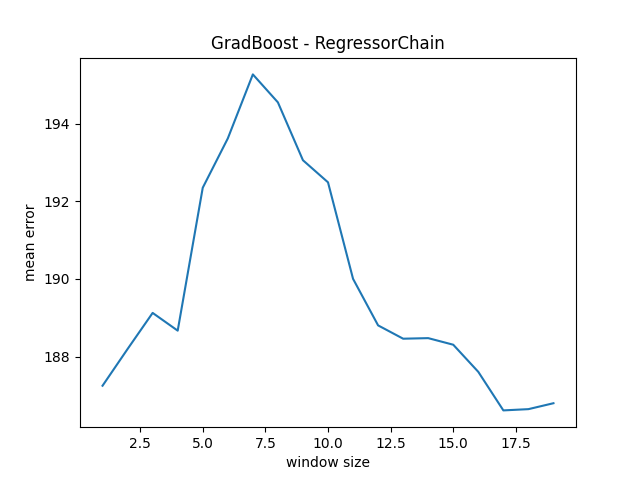
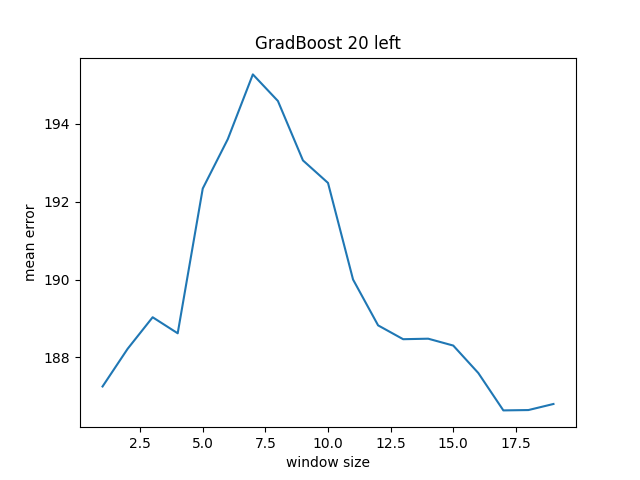
modes

diff --git a/cross_validator.py b/cross_validator.py
@@ -14,6 +14,7 @@ warnings.filterwarnings("ignore")
 
 dataset = 'Baseline'
 graph_path = os.path.join('graphs')
+error_path = os.path.join('errors')
 
 if os.name == 'nt':
     baseline_processed = 'C:/Users/Anuj/Desktop/Canary/Baseline/OpenFace-eye-gaze'
@@ -158,55 +159,61 @@ plt.ylabel('number of data points')
 plt.plot(windows, lens)
 '''
 
-# classifiers = ["RandomForest", "DecisionTree", "LogReg", "KNN", "SVM", "GradBoost"]
-classifiers = ['GradBoost']
-window_iter = 20
-
-mean_errors = []
-windows = []
-lens = []
 
 modes = ['left', 'right', 'avg', 'all']
-mode = 'right'
-mode_data = {'x': {i: None for i in modes}, 'y': {i: None for i in modes}}
+# mode = 'right'
 
-for clf in classifiers:
-    for window_size in tqdm(range(1, window_iter), desc='running through all windows'):
-        # window_size = 2  # hyperparameter, defines number of seconds to take in a window starting from 0
-        windows.append(window_size)
-        window_data = np.vstack(all_data[:, 0:window_size * 10, :])
-        full_data_points = [i for i in range(len(window_data)) if window_data[i].any() != False]
-        window_data = window_data[full_data_points]
+for mode in modes:
+    # classifiers = ["RandomForest", "DecisionTree", "LogReg", "KNN", "SVM", "GradBoost"]
+    classifiers = ['GradBoost']
+    window_iter = 20
 
-        lens.append(len(window_data))
-        print('data points that are not all zeros:', len(window_data))
-        mode_data['x']['all'] = window_x_all = window_data[:, :nip]  # all x
-        mode_data['x']['left'] = window_x_all[:, :3]  # left x
-        mode_data['x']['right'] = window_x_all[:, 3:-2]  # right x
-        mode_data['x']['avg'] = window_x_all[:, -2:]  # avg x
+    mean_errors = []
+    windows = []
+    lens = []
 
-        mode_data['y']['all'] = window_y_all = window_data[:, nip:]  # all y
-        mode_data['y']['left'] = window_y_all[:, :2]  # left y
-        mode_data['y']['right'] = window_y_all[:, 2:4]  # right y
-        mode_data['y']['avg'] = window_y_all[:, -2:]  # avg y
+    for clf in classifiers:
+        for window_size in tqdm(range(1, window_iter), desc='running through all windows'):
 
-        # model = GradientBoostingRegressor(random_state=0)
-        # model = MultiOutputRegressor(model)
+            mode_data = {'x': {i: None for i in modes}, 'y': {i: None for i in modes}}
 
-        window_x = mode_data['x'][mode]
-        window_y = mode_data['y'][mode]
-        model = ClassifiersFactory().get_model(clf)
-        chain = RegressorChain(base_estimator=model)
+            windows.append(window_size)
+            window_data = np.vstack(all_data[:, 0:window_size * 10, :])
+            full_data_points = [i for i in range(len(window_data)) if window_data[i].any() != False]
+            window_data = window_data[full_data_points]
 
-        cv = RepeatedKFold(n_splits=10, n_repeats=1, random_state=0)
-        n_errors = np.absolute(cross_val_score(chain, window_x, window_y, scoring='neg_mean_absolute_error',
-                                               cv=cv, n_jobs=2))
-        mean_errors.append(np.mean(n_errors))
+            lens.append(len(window_data))
+            print('data points that are not all zeros:', len(window_data))
+            mode_data['x']['all'] = window_x_all = window_data[:, :nip]  # all x
+            mode_data['x']['left'] = window_x_all[:, :3]  # left x
+            mode_data['x']['right'] = window_x_all[:, 3:-2]  # right x
+            mode_data['x']['avg'] = window_x_all[:, -2:]  # avg x
 
-    plt.clf()
-    plt.title('{} {} {}'.format(clf, window_iter, mode))
-    plt.xlabel('window size')
-    plt.ylabel('mean error')
-    plt.plot(windows, mean_errors)
-    plt.savefig(os.path.join(graph_path, '{}_{}_{}.png'.format(clf, window_iter, mode)))
-    plt.close()
+            mode_data['y']['all'] = window_y_all = window_data[:, nip:]  # all y
+            mode_data['y']['left'] = window_y_all[:, :2]  # left y
+            mode_data['y']['right'] = window_y_all[:, 2:4]  # right y
+            mode_data['y']['avg'] = window_y_all[:, -2:]  # avg y
+
+            # model = GradientBoostingRegressor(random_state=0)
+            # model = MultiOutputRegressor(model)
+
+            window_x = mode_data['x'][mode]
+            window_y = mode_data['y'][mode]
+            model = ClassifiersFactory().get_model(clf)
+            chain = RegressorChain(base_estimator=model)
+
+            cv = RepeatedKFold(n_splits=10, n_repeats=1, random_state=0)
+            n_errors = np.absolute(cross_val_score(chain, window_x, window_y, scoring='neg_mean_absolute_error',
+                                                   cv=cv, n_jobs=2))
+            mean_errors.append(np.mean(n_errors))
+
+        plt.clf()
+        plt.title('{} {} {}'.format(clf, window_iter, mode))
+        plt.xlabel('window size')
+        plt.ylabel('mean error')
+        plt.plot(windows, mean_errors)
+        plt.savefig(os.path.join(graph_path, '{}_{}_{}.png'.format(clf, window_iter, mode)))
+        plt.close()
+
+        error_filename = os.path.join(error_path, '{}_{}_{}.csv'.format(clf, window_iter, mode))
+        pd.DataFrame(mean_errors, columns=['mean absolute error'], index=windows).to_csv(error_filename)
